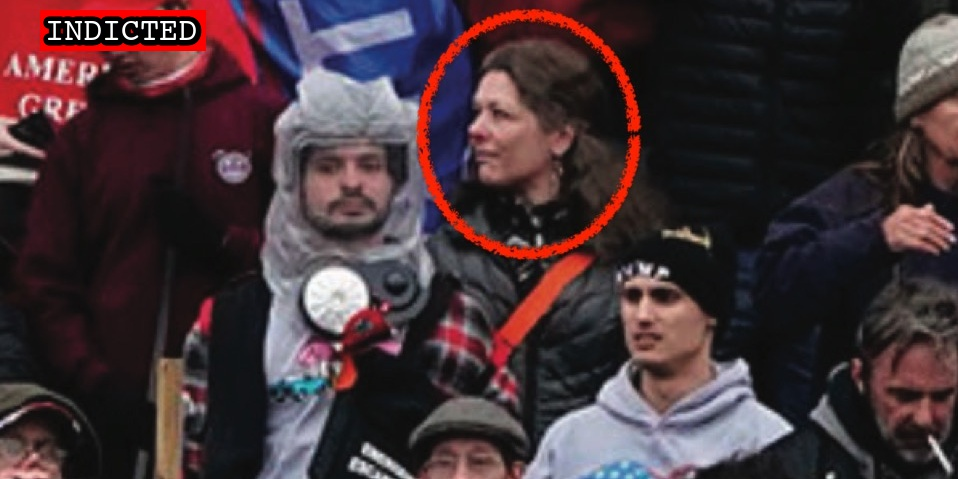
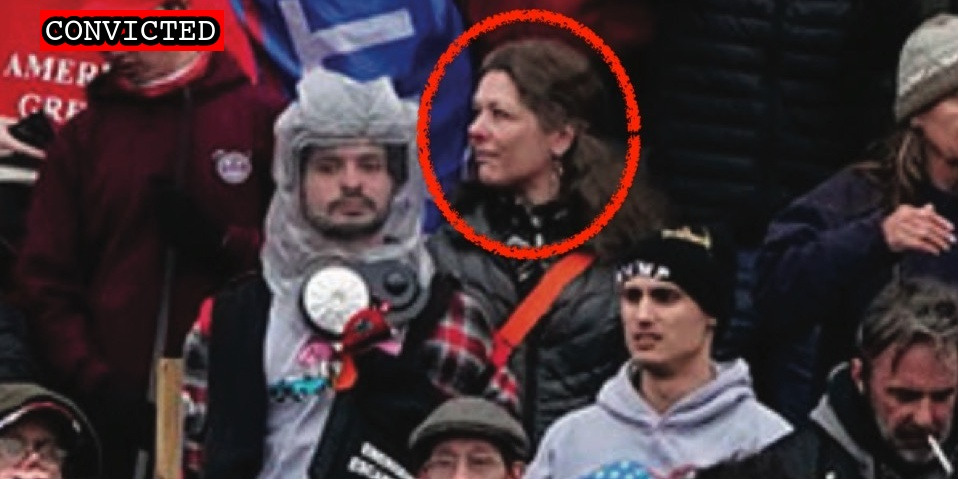
Latest convictions and sentences

Changed region(s): [[0.0303, 0.0, 0.2422, 0.1169]]

diff --git a/docs/_suspects/maryann-mooney-rondon.md b/docs/_suspects/maryann-mooney-rondon.md
@@ -4,18 +4,18 @@ lastName: Mooney-Rondon
 hashtag: AirHeadLady
 aka:
 residence: New York
-status: Indicted
+status: Convicted
 date: 2021-09-01
 charged: 2021-09-01
 indicted: 2021-12-08
-convicted:
+convicted: 2023-03-27
 acquitted:
 sentenced:
 dismissed:
 deceased:
 plea_hearing:
 trial_date: 2023-03-27
-trial_type: Bench Trial
+trial_type: Stipulated Bench Trial
 jury_selection:
 sentencing: 2023-07-18
 status_conference:
@@ -32,7 +32,7 @@ raid:
 perpwalk:
 quote: "I was like, we gotta get out of here, this isn’t right, I mean he scared the crap out of me."
 title: Maryann Mooney-Rondon charged on September 1, 2021
-description: Click for latest case details. Suspects innocent until proven guilty.
+description: Convicted on March 27, 2023. Click for latest case details.
 author: seditiontrack
 layout: suspect
 published: true
@@ -41,8 +41,17 @@ caseName: USA v. MOONEY-RONDON
 judge: Jia M. Cobb
 videos:
 charges:
+  - code: 18 USC § 1512(c)(2),2
+    title: Obstruction of an Official Proceeding (Aiding and Abetting)
+    url: https://www.law.cornell.edu/uscode/text/18/1512
+    felony: true
+  - code: 18 USC § 641,2
+    title: Theft of Government Property (Aiding and Abetting)
+    url: https://www.law.cornell.edu/uscode/text/18/641
+    felony: false
 sentence:
 ---
+
 - [News Report](https://www.wwnytv.com/2021/10/01/watertown-man-his-mother-facing-federal-charges-jan-6th-capitol-riot/)
 - [Statement of Facts](https://extremism.gwu.edu/sites/g/files/zaxdzs2191/f/Maryann%20Mooney-Rondon%20and%20Rafael%20Rondon%20Statement%20of%20Facts.pdf)
 - [Indictment](https://extremism.gwu.edu/sites/g/files/zaxdzs2191/f/Maryann%20Mooney-Rondon%20and%20Rafael%20Rondon%20Indictment.pdf)

diff --git a/docs/_suspects/eric-cantrell.md b/docs/_suspects/eric-cantrell.md
@@ -4,20 +4,20 @@ lastName: Cantrell
 hashtag:
 aka:
 residence: Indiana
-status: Charged
+status: Sentenced
 date: 2022-03-07
 charged: 2022-03-07
 indicted:
-convicted:
+convicted: 2023-03-27
 acquitted:
-sentenced:
+sentenced: 2023-03-27
 dismissed:
 deceased:
 plea_hearing:
 trial_date: 2023-04-03
 trial_type: Bench Trial
 jury_selection:
-sentencing:
+sentencing: 2023-03-27
 status_conference:
 age: 51
 occupation:
@@ -32,7 +32,7 @@ raid:
 perpwalk:
 quote:
 title: Eric Cantrell charged on March 7th, 2022
-description: Click for latest case details. Suspects innocent until proven guilty.
+description: Convicted on March 27, 2023. Click for latest case details.
 author: seditiontrack
 layout: suspect
 published: true
@@ -41,9 +41,19 @@ caseName: USA v. CANTRELL
 judge: Trevor N. McFadden
 videos:
 charges:
+  - code: 40 USC § 5104(e)(2)(G)
+    title: Parading, demonstrating or picketing in a Capitol building
+    url: https://www.law.cornell.edu/uscode/text/40/5104
+    felony: false
 sentence:
+  - 3 months probation
+  - 40 hours community service
+  - $1000 fine
+  - $500 restitution
 ---
+
 - [News Report](https://www.wishtv.com/news/crime-watch-8/3-cousins-from-central-indiana-charged-in-us-capitol-riot/)
 - [Complaint](https://www.justice.gov/usao-dc/case-multi-defendant/file/1481971/download)
 - [Statement of Facts](https://www.justice.gov/usao-dc/case-multi-defendant/file/1481976/download)
 - [Information](https://extremism.gwu.edu/sites/g/files/zaxdzs2191/f/Eric%20Quentin%20and%20Jared%20Cantrell%20Information.pdf)
+- [Plea Agreement](https://storage.courtlistener.com/recap/gov.uscourts.dcd.242114/gov.uscourts.dcd.242114.69.0.pdf)

diff --git a/docs/_suspects/howard-adams.md b/docs/_suspects/howard-adams.md
@@ -17,7 +17,7 @@ plea_hearing: 2023-01-26
 trial_date:
 trial_type:
 jury_selection: 2023-03-06
-sentencing: 2023-04-13
+sentencing: 2023-03-31
 status_conference:
 age: 62
 occupation:
@@ -41,12 +41,13 @@ caseName: USA v. ADAMS
 judge: Beryl A. Howell
 videos:
 charges:
-- code: 18 USC § 231(a)(3)
-  title: Obstruction of Law Enforcement During Civil Disorder
-  url: https://www.law.cornell.edu/uscode/text/18/231
-  felony: true
+  - code: 18 USC § 231(a)(3)
+    title: Obstruction of Law Enforcement During Civil Disorder
+    url: https://www.law.cornell.edu/uscode/text/18/231
+    felony: true
 sentence:
 ---
+
 - [News Report](https://www.clickorlando.com/news/local/2021/03/10/another-central-florida-man-arrested-in-capitol-riot/#//)
 - [Statement of Facts](https://www.justice.gov/usao-dc/case-multi-defendant/file/1378311/download)
 - [Indictment](https://www.justice.gov/usao-dc/case-multi-defendant/file/1456816/download)

diff --git a/docs/_suspects/mark-sahady.md b/docs/_suspects/mark-sahady.md
@@ -8,15 +8,15 @@ status: Charged
 date: 2021-01-19
 charged: 2021-01-19
 indicted:
-convicted: 
+convicted:
 acquitted:
-sentenced: 
-dismissed: 
+sentenced:
+dismissed:
 deceased:
 plea_hearing:
-trial_date: 2023-04-17
+trial_date: 2023-05-01
 trial_type: Jury Trial
-jury_selection: 2023-04-17
+jury_selection: 2023-05-01
 sentencing:
 status_conference:
 age: 46
@@ -43,6 +43,7 @@ videos:
 charges:
 sentence:
 ---
+
 - [DOJ Press Release](https://www.justice.gov/usao-dc/pr/two-massachusetts-residents-charged-connection-capitol-breach)
 - [News Report](https://www.bostonherald.com/2021/01/19/boston-straight-pride-parade-organizer-mark-sahady-natick-politician-sue-ianni-arrested-for-us-capitol-siege/)
 - [FBI Statement (Twitter)](https://twitter.com/FBIBoston/status/1351560718915612672?s=20)

diff --git a/docs/_suspects/victor-martinez.md b/docs/_suspects/victor-martinez.md
@@ -13,7 +13,7 @@ acquitted:
 sentenced:
 dismissed:
 deceased:
-plea_hearing:
+plea_hearing: 2023-04-07
 trial_date:
 trial_type:
 jury_selection:
@@ -43,6 +43,7 @@ videos:
 charges:
 sentence:
 ---
+
 - [News Report](https://www.expressnews.com/news/local/article/another-san-antonio-man-charged-in-u-s-capitol-17774646.php)
 - [Complaint](https://www.justice.gov/usao-dc/case-multi-defendant/file/1567416/download)
 - [Statement of Facts](https://www.justice.gov/usao-dc/case-multi-defendant/file/1567421/download)
